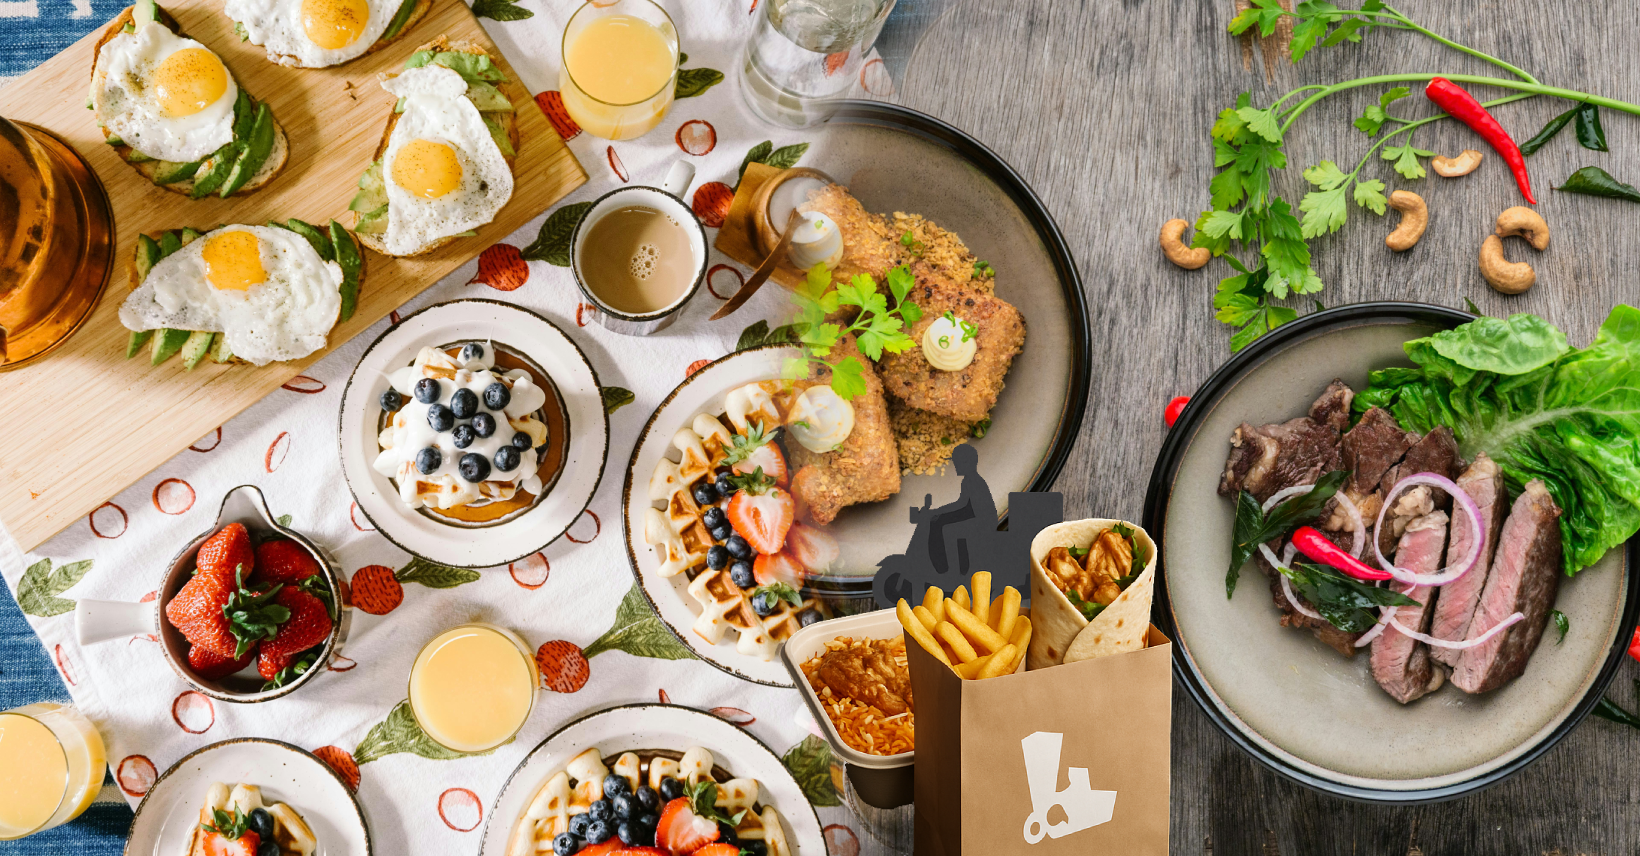
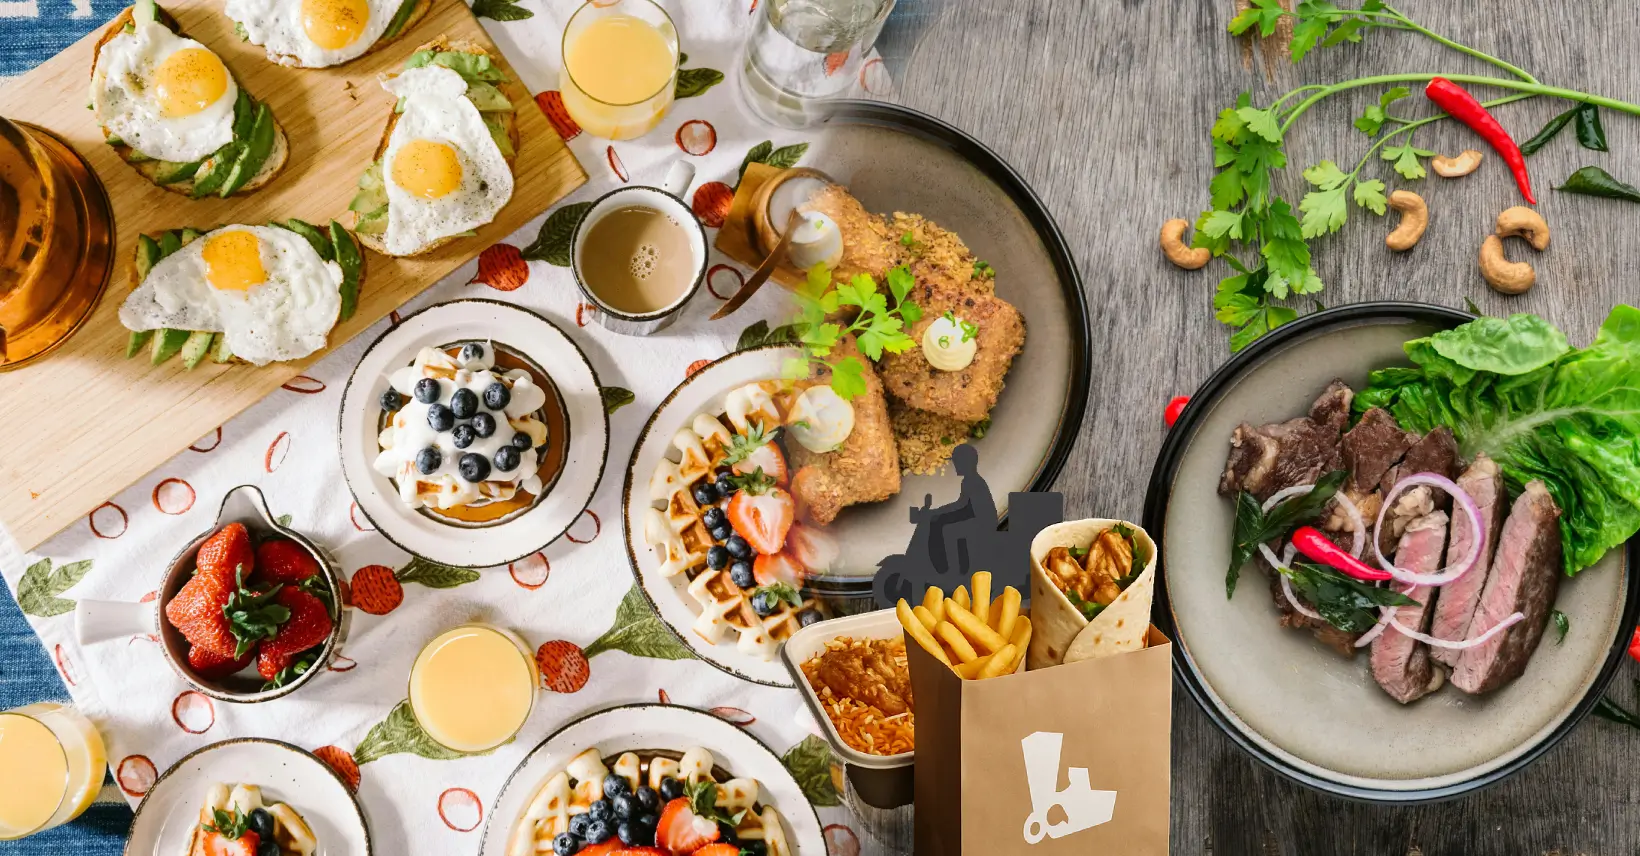
optimized hero image

diff --git a/src/app/page.tsx b/src/app/page.tsx
@@ -6,6 +6,7 @@ import { RestaurantCard } from "@/components/custom/restaurant-card"
 import RestaurantMenuItem from "@/components/custom/restaurant-menu-item"
 import { SearchBar } from "@/components/custom/search"
 import { Badge } from "@/components/ui/badge"
+import { getBlurPlaceholder } from "@/lib/optimize-image"
 import { api } from "@/trpc/server"
 import type { RouterOutputs } from "@/trpc/react"
 
@@ -39,15 +40,20 @@ export default async function Home() {
     }),
   )
 
+  const heroImagePath = "/hero-bg.webp"
+  const blurHeroImage = await getBlurPlaceholder(heroImagePath, 300, 90)
+
   return (
     <>
       <section className="relative w-full h-[480px] flex items-center justify-center">
         <Image
-          src="/hero-bg.webp"
+          src={heroImagePath}
           alt="Hero Background"
           width={1920}
           height={480}
           className="absolute inset-0 object-cover w-full h-full"
+          blurDataURL={blurHeroImage ?? heroImagePath}
+          placeholder="blur"
           priority
         />
         <div className="absolute inset-0 bg-gradient-to-t from-black/80 via-black/70 to-transparent" />
